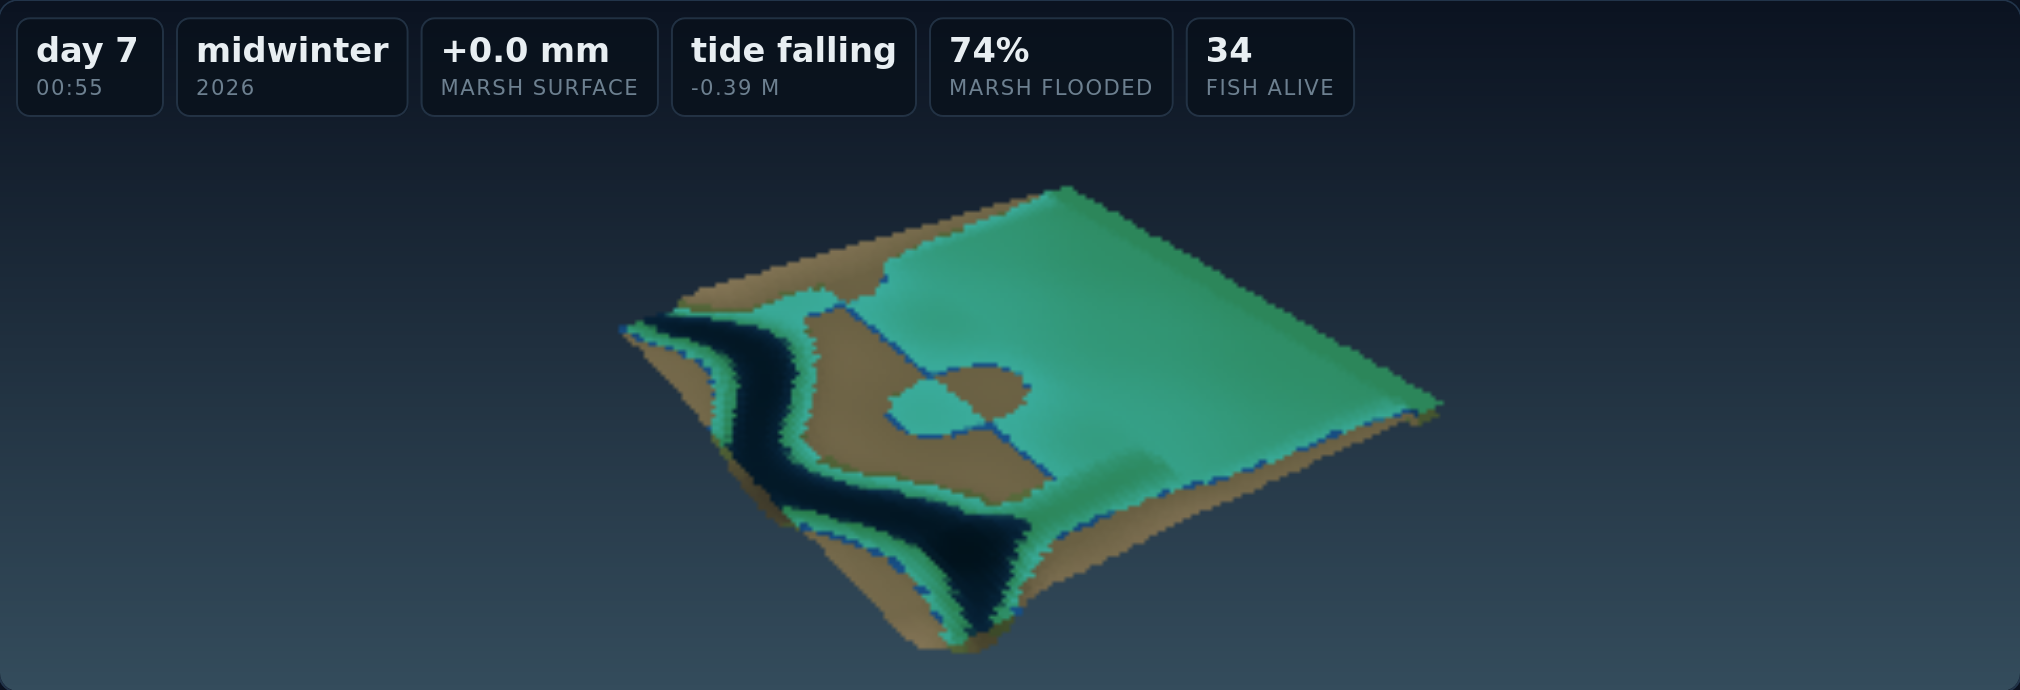
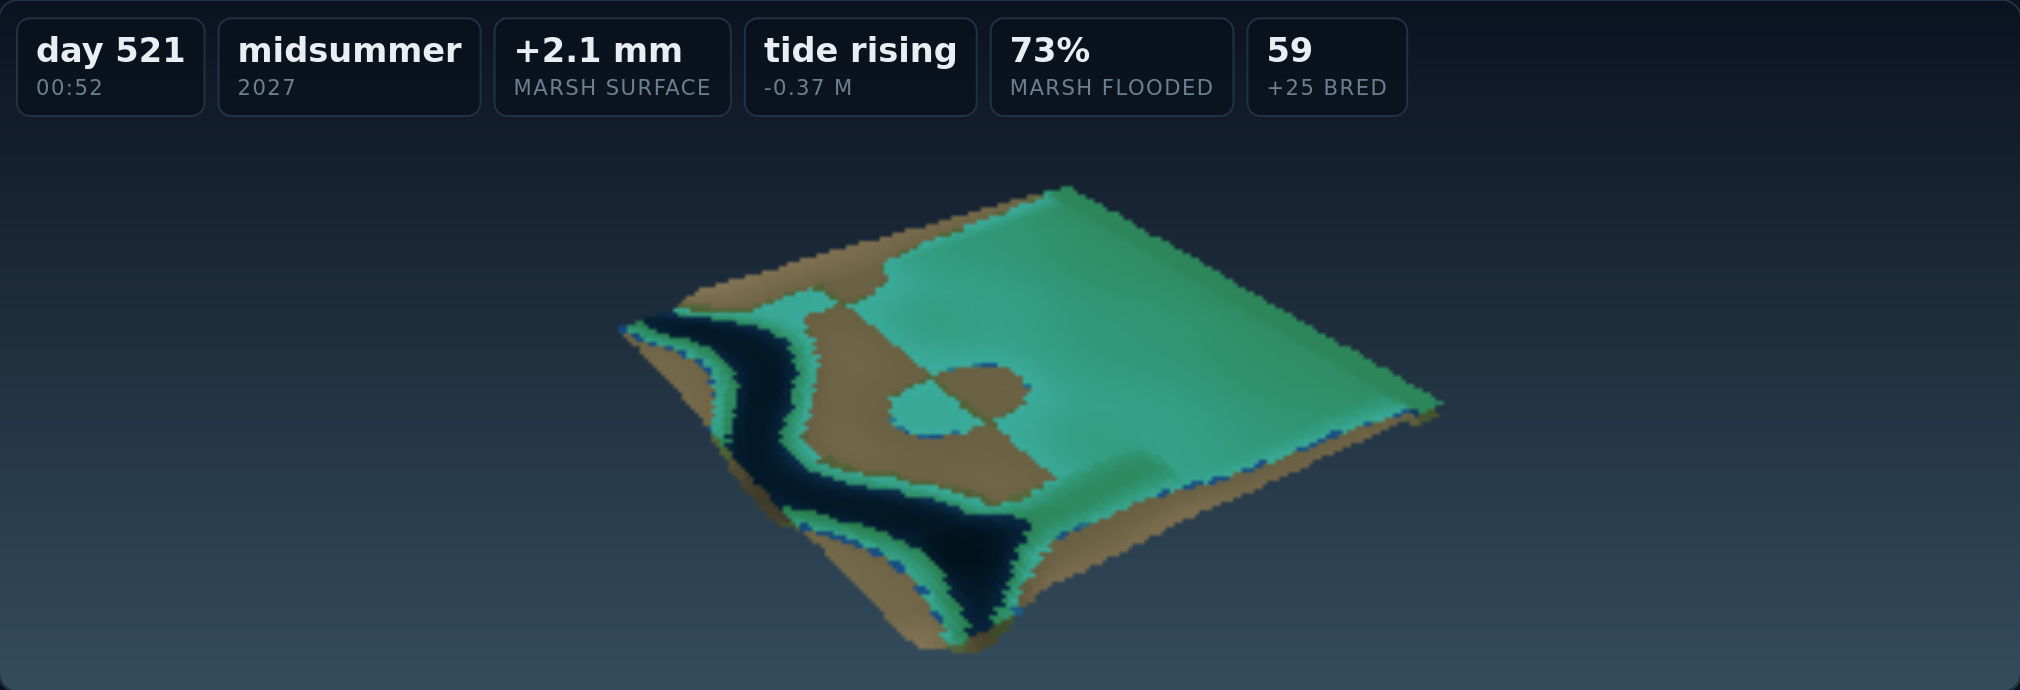
saltmarsh: shorten the sealed-pool caption and re-capture the screenshots
The rewritten caption ran to six lines on a phone and covered about half the marsh view -- a regression I introduced in the previous commit and only saw by looking. Measured: it now overlaps 21% of the canvas in portrait, 25% in landscape, 9% on desktop, and the marsh body stays visible above it.

diff --git a/index.html b/index.html
@@ -1935,7 +1935,7 @@ function hintText() {
   }
   if (!state.sluice.open && !state.outfall.open) {
     return {
-      text: `Both openings closed. The pool is cut off from the sea: rain freshens it, and evaporation concentrates the salt it is left holding, so which way it moves depends on the season. Nothing enters and nothing leaves but water.`,
+      text: `Both openings closed. Rain freshens the pool; evaporation puts the salt back. Which way it moves is the season's decision, not yours.`,
       cls: '',
     };
   }

diff --git a/src/app.js b/src/app.js
@@ -150,7 +150,7 @@ function hintText() {
   }
   if (!state.sluice.open && !state.outfall.open) {
     return {
-      text: `Both openings closed. The pool is cut off from the sea: rain freshens it, and evaporation concentrates the salt it is left holding, so which way it moves depends on the season. Nothing enters and nothing leaves but water.`,
+      text: `Both openings closed. Rain freshens the pool; evaporation puts the salt back. Which way it moves is the season's decision, not yours.`,
       cls: '',
     };
   }
